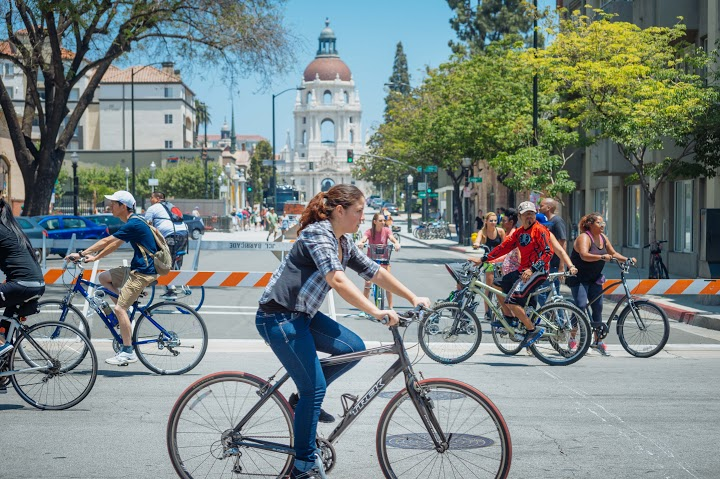
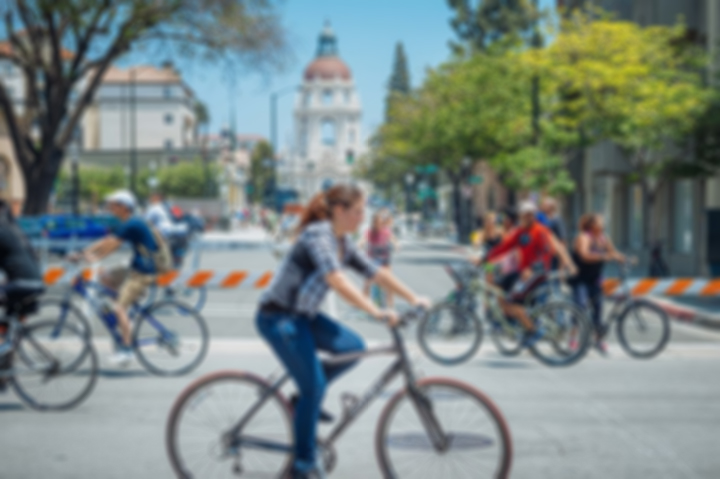
Small changes, splash page

diff --git a/index.html b/index.html
@@ -89,7 +89,7 @@
         <div class="carousel-inner">
             <div class="item active">
 							<div class="fill">
-								<img src="images/Cyclavia 2.jpg" class="splash-page-image"/>
+								<img src="images/Cyclavia 2.jpg"/>
 							</div>
                 <div class="carousel-caption">
 				<img src="images/logo.png">
@@ -102,7 +102,7 @@
             </div>
             <div class="item">
 							<div class="fill">
-								<img src="images/City Hall 4.jpg" class="splash-page-image"/>
+								<img src="images/City Hall 4.jpg"/>
 							</div>
                 <div class="carousel-caption">
 				<img src="images/logo.png">
@@ -116,7 +116,7 @@
             <div class="item">
                 <!-- Set the third background image using inline CSS below. -->
 								<div class="fill">
-									<img src="images/Old Town 1.jpg" class="splash-page-image"/>
+									<img src="images/Old Town 1.jpg"/>
 								</div>
                 <div class="carousel-caption">
 				<img src="images/logo.png" >

diff --git a/styles.css b/styles.css
@@ -30,14 +30,6 @@ body {
     height: 100%;
 }
 
-.splash-page-image {
-  -webkit-filter: blur(3px);
-  -moz-filter: blur(3px);
-  -o-filter: blur(3px);
-  -ms-filter: blur(3px);
-  filter: blur(3px);
-}
-
 .carousel-caption img {
     width: 50%;
     height:auto;
